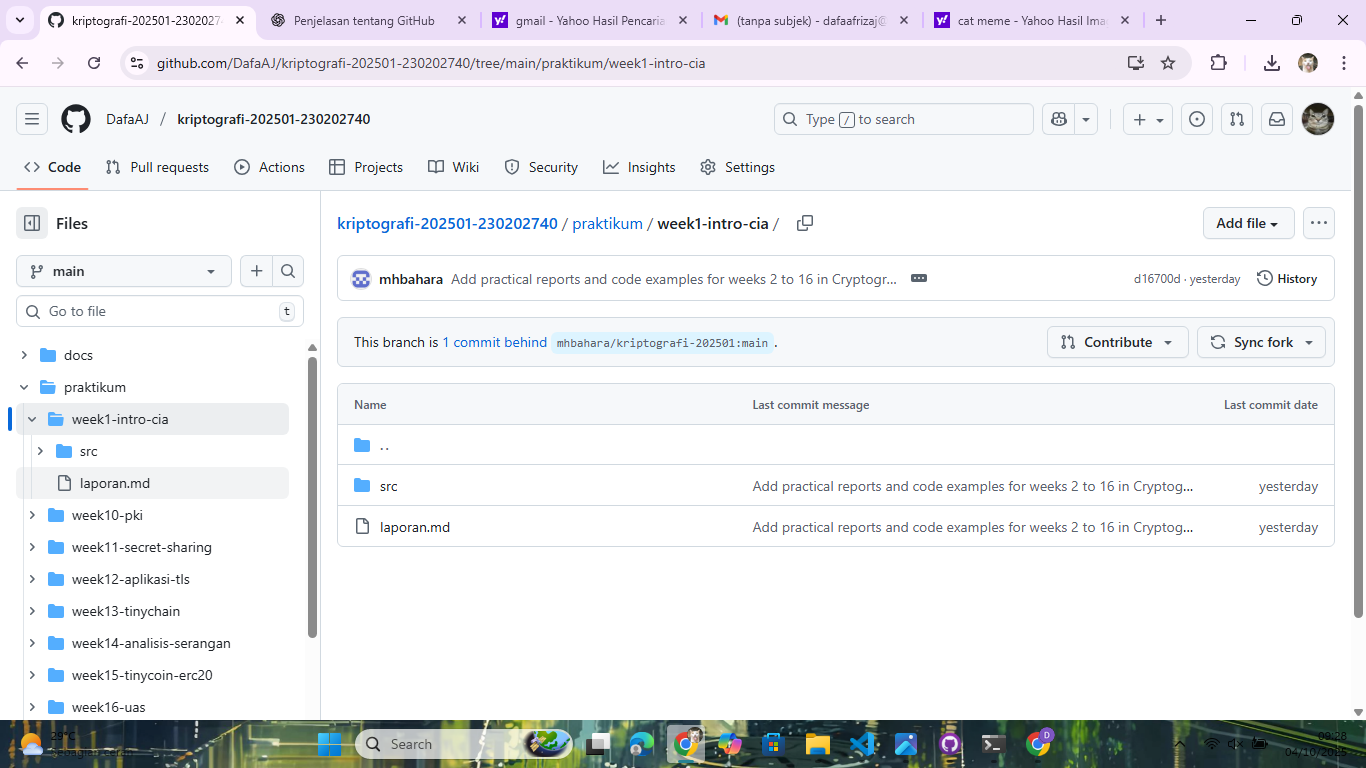
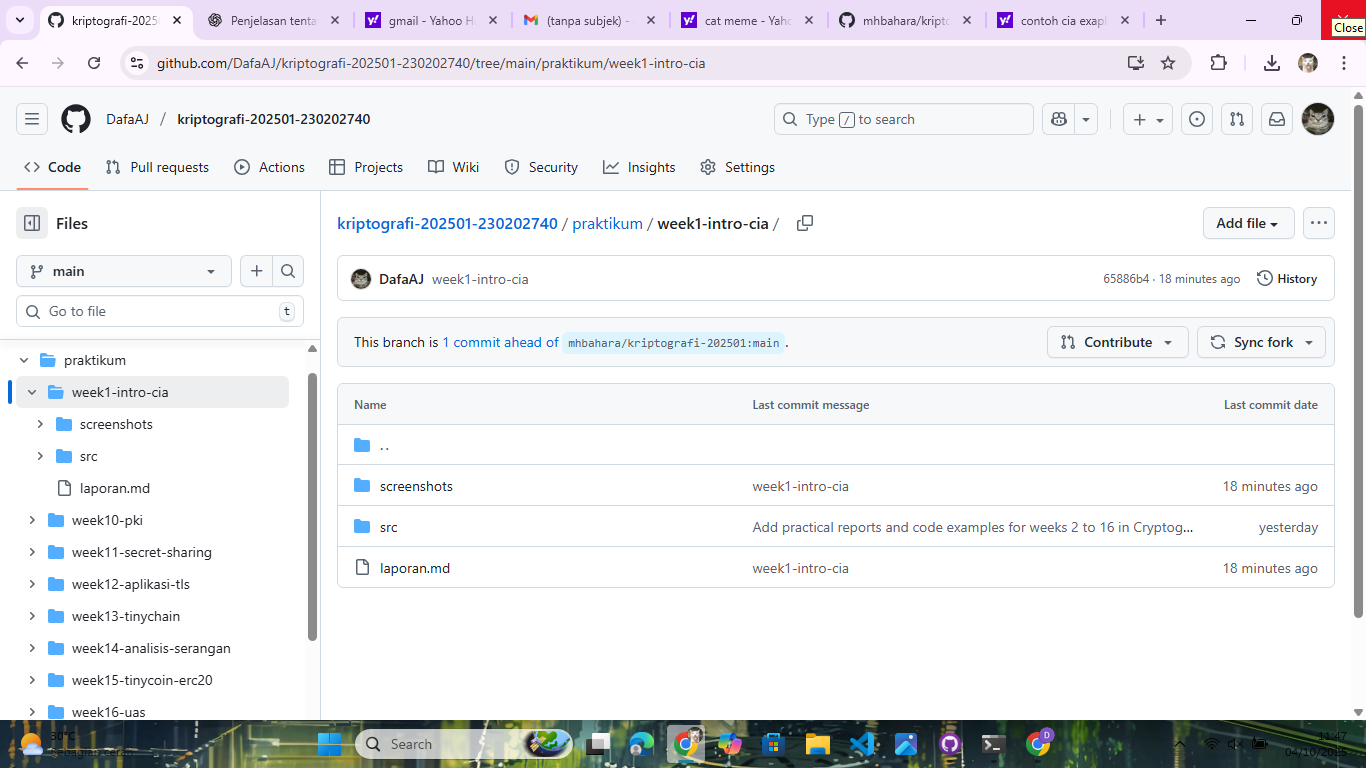
week1-intro-cia

diff --git a/praktikum/week1-intro-cia/laporan.md b/praktikum/week1-intro-cia/laporan.md
@@ -95,12 +95,9 @@ Praktikum minggu pertama menekankan pemahaman sejarah kriptografi dari era klasi
 ---
 
 ## 10. Commit Log
-(Tuliskan bukti commit Git yang relevan.  
-Contoh:
-```
-commit abc12345
-Author: Nama Mahasiswa <email>
-Date:   2025-09-20
+commit 65886b44e29e421fb2db6409ae5561743b51ee2b (HEAD -> main, origin/main, origin/HEAD)commit abc12345
+Author: Dafa Afriza J <dafaafrizaj@gmail.com>
+Date:   Sat Oct 4 11:29:02 2025 +0700
 
-    week2-cryptosystem: implementasi Caesar Cipher dan laporan )
+     week1-intro-cia
 ```
